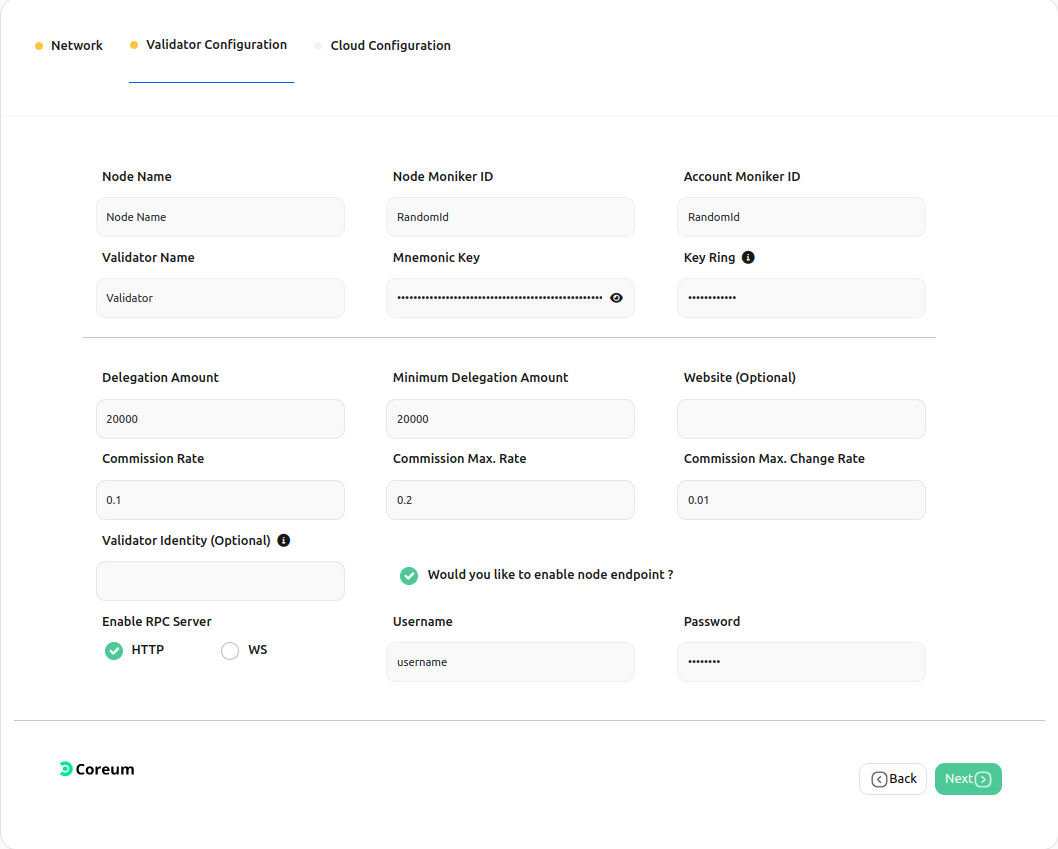
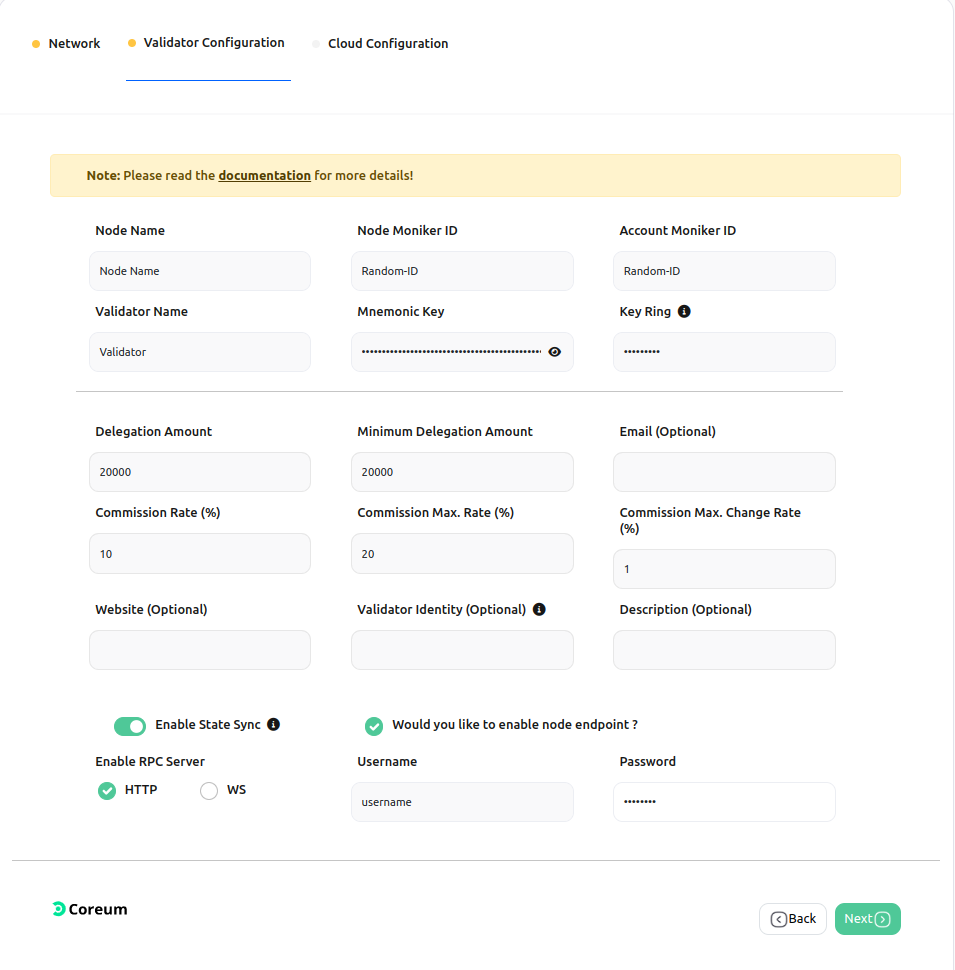
Updated the coreum staking node doc

diff --git a/source/Coreum.md b/source/Coreum.md
@@ -168,10 +168,12 @@ This section will guide you on how you can add a node to a network.
 
 
 
- 1. [Create network](#create-a-network)
- 2. [Add a node](#add-node-to-a-network)
- 3. [Delete a node](#delete-node-in-a-network)
- 4. [Delete network](#delete-a-network)
+ 1. [Create network](#create-a-network-2)
+ 2. [Update validator details](#update-validator-details)
+ 3. [Unbound token](#ubound-tokens)
+ 4. [Withdraw rewards](#withdraw-rewards)
+ 5. [Set rewards to a different wallet](#set-rewards-to-a-different-wallet)
+ 6. [Delete network](#delete-a-network-2)
 
 ### **Create a network**
 
@@ -213,6 +215,7 @@ In this section, you have to fill in the details of the nodes you want to add to
 > * **Validator Name**: The name which is visible on the Coreum Explorer. 
 > * **Mnemonic Key**: bip39 mnemonic passphrase of your wallet. 
 > * **Key Ring**: A passprase to access your private key. 
+> * **Email**: Email will be used as a secret identity.
 > * **Delegation Amount**: Amount which you want to delegate/stake. 
 > * **Minimum Delegation Amount**: The minimum delegation amount and must be grater or equal min_self_delegation. 
 > * **Commission Rate**: The initial commission rate percentage. 
@@ -220,6 +223,7 @@ In this section, you have to fill in the details of the nodes you want to add to
 > * **Commission Max. Change Rate**: The maximum commission change rate percentage (per day). 
 > * **Website**: Website you want to be reflected in the. 
 > * **Validator Identity**: The optional identity signature (ex. UPort or Keybase). 
+> * **State Sync**: By enabling state sync your node will download data related to the head or near the head of the chain and verify the data. This leads to drastically shorter times for joining a network [Read more](https://docs.tendermint.com/v0.34/tendermint-core/state-sync.html).
 > * **Username & Password**: Choose the username and password of your choice. These will be used as RPC API credentials.
 > *  **Rpc Server**: RPC, which stands for "Remote Procedure Call," is a group of protocols and interfaces that let us talk to the blockchain system. Through the RPC interface, we can ask for information about the blockchain (such as block number, blocks, node connection, etc.) and send a request for a transaction. 
     >     * **HTTP**: Uses individual HTTP requests and responses for each call, similar to a RESTful API.
@@ -277,12 +281,71 @@ In the case of **BYOC - DO**, select the region for the network by clicking on *
 5. Click on **continue** and you will be redirected to a page similar to the below image where you can see the nodes listed you've just added to the network.
 
 
+### **Update Validator Details**
+
+1. Find the Edit button on top right of the screen and click on it to edit and update the prefered validator detail. You will get to see similar to the below image.
+
+    ***Step 01 :***
+
+    * Validator Name
+    > ![img](./images/coreum/update-validator-name.png)
+
+
+    * Commission Rate
+    > ![img](./images/coreum/update-commission-rate.png)
+
+
+    * Email
+    > ![img](./images/coreum/update-email.png)
+
+
+    * Validator Identity
+    > ![img](./images/coreum/update-validator-identity.png)
+
+    
+    ***Step 02 :***
+
+    * Keyring is require in order to update the validator details.
+    > ![img](./images/coreum/update-keyring.png)
+
+### **Ubound tokens**
+
+1. Click on the *Actions* button on the top right, and select the **Unbound Token** option.
+
+    ![img](./images/coreum/validator-actions.png)
+
+2. Enter the amount you want to unbound and the keyring, then click on Unbound button.
+    
+    > ![img](./images/coreum/action-unbound-token.png)
+
+
+### **Withdraw rewards**
+
+1. Click on the *Actions* button on the top right, and select the **Withdraw reward** option.
+
+    ![img](./images/coreum/validator-actions.png)
+
+2. Enter the keyring then click on Withdraw button.
+    
+    > ![img](./images/coreum/action-withdraw-reward.png)
+
+
+### **Set rewards to a different wallet**
+
+1. Click on the *Actions* button on the top right, and select the **Set rewards to a different wallet** option.
+
+    ![img](./images/coreum/validator-actions.png)
+
+2. Enter the wallet address and keyring then click on Set button.
+    
+    > ![img](./images/coreum/action-set-wallet-reward.png)
+
 ### **Delete a network**
 
 
-1. Select the network you want to delete, and click on the network card [Ref.](./View_your_network_and_nodes.md). You will get to see similar to the below image.
+1. Select the network you want to delete, and click on the network card. You will get to see similar to the below image.
 
-    ![img](./images/CoreumDeleteNetwork.png)
+    ![img](./images/coreum/validator-actions.png)
 
 2. Click on the *Actions* button on the top right, and select the **Delete Network** option. A confirmation window will open, click on the **Yes** button, attached to it.
 
